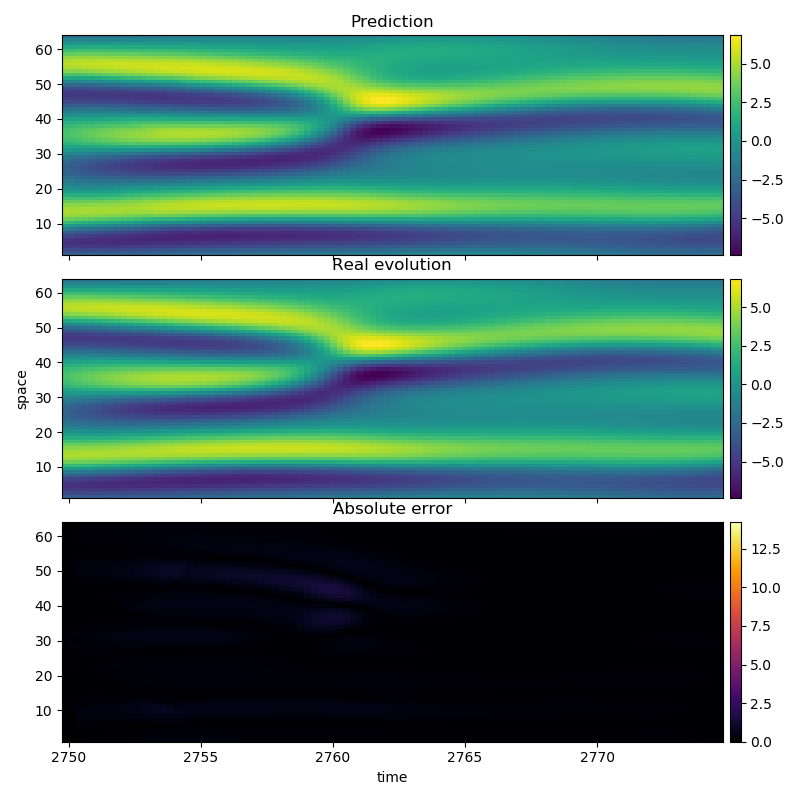
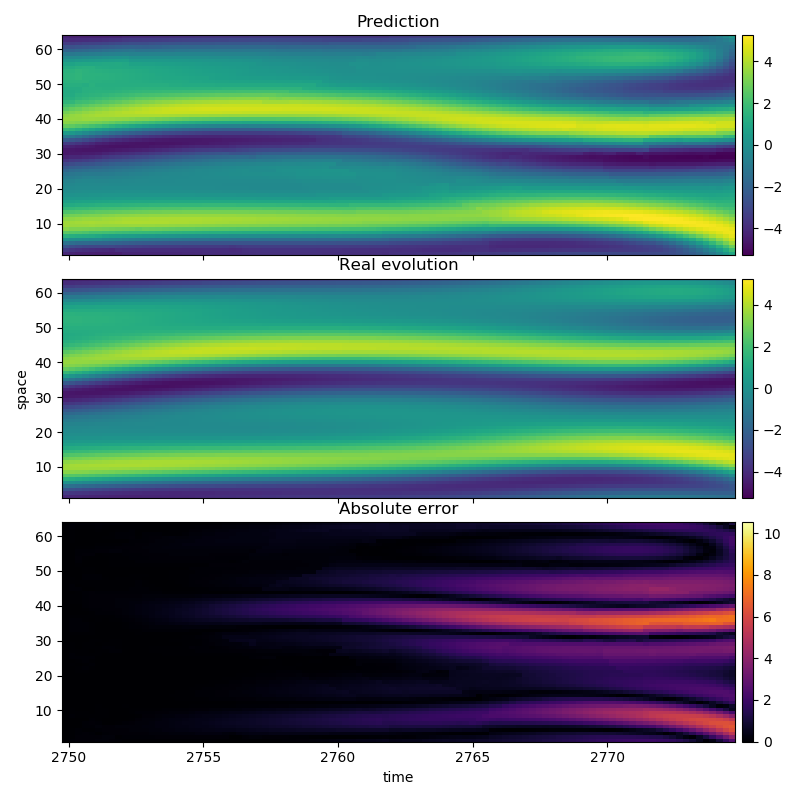
build based on 01f9052

diff --git a/dev/spatiotemporal/index.html b/dev/spatiotemporal/index.html
@@ -405,7 +405,7 @@
 
 <p>Reconstruct the spatial timeseries <code>s</code> represented by a <code>Vector</code> of <code>AbstractArray</code> states using the embedding struct <code>em</code> of type <a href="./#TimeseriesPrediction.AbstractSpatialEmbedding"><code>AbstractSpatialEmbedding</code></a>.</p>
 <p>Returns the reconstruction in the form of a <code>Dataset</code> (from <code>DelayEmbeddings</code>) where each row is a reconstructed state and they are ordered first through linear indexing into each state and then incrementing in time.</p>
-<p><a target='_blank' href='https://github.com/JuliaDynamics/TimeseriesPrediction.jl/blob/ef7fe56eb3ba3d074e0d8a00fca55862982609ec/src/reconstruct.jl#L6-L14' class='documenter-source'>source</a><br></p>
+<p><a target='_blank' href='https://github.com/JuliaDynamics/TimeseriesPrediction.jl/blob/01f90522144459736dd2bb98e5d575d51aa10f30/src/reconstruct.jl#L6-L14' class='documenter-source'>source</a><br></p>
 <p><a id='TimeseriesPrediction.AbstractSpatialEmbedding' href='#TimeseriesPrediction.AbstractSpatialEmbedding'>#</a>
 <strong><code>TimeseriesPrediction.AbstractSpatialEmbedding</code></strong> &mdash; <em>Type</em>.</p>
 <div class="codehilite"><pre><span></span>AbstractSpatialEmbedding &lt;: AbstractEmbedding
@@ -417,7 +417,7 @@
 <li><code>SpatioTemporalEmbedding</code></li>
 <li><code>PCAEmbedding</code></li>
 </ul>
-<p><a target='_blank' href='https://github.com/JuliaDynamics/TimeseriesPrediction.jl/blob/ef7fe56eb3ba3d074e0d8a00fca55862982609ec/src/spatiotemporalembedding.jl#L15-L20' class='documenter-source'>source</a><br></p>
+<p><a target='_blank' href='https://github.com/JuliaDynamics/TimeseriesPrediction.jl/blob/01f90522144459736dd2bb98e5d575d51aa10f30/src/spatiotemporalembedding.jl#L15-L20' class='documenter-source'>source</a><br></p>
 <p><a id='TimeseriesPrediction.SpatioTemporalEmbedding' href='#TimeseriesPrediction.SpatioTemporalEmbedding'>#</a>
 <strong><code>TimeseriesPrediction.SpatioTemporalEmbedding</code></strong> &mdash; <em>Type</em>.</p>
 <div class="codehilite"><pre><span></span>SpatioTemporalEmbedding{T,Φ,BC,X} → embedding
@@ -450,7 +450,7 @@
 <li><code>bc::BC</code> : boundary condition.</li>
 <li><code>fsize::NTuple{Φ, Int}</code> : Size of each state in the timeseries.</li>
 </ul>
-<p><a target='_blank' href='https://github.com/JuliaDynamics/TimeseriesPrediction.jl/blob/ef7fe56eb3ba3d074e0d8a00fca55862982609ec/src/spatiotemporalembedding.jl#L87-L116' class='documenter-source'>source</a><br></p>
+<p><a target='_blank' href='https://github.com/JuliaDynamics/TimeseriesPrediction.jl/blob/01f90522144459736dd2bb98e5d575d51aa10f30/src/spatiotemporalembedding.jl#L87-L116' class='documenter-source'>source</a><br></p>
 <p><a id='TimeseriesPrediction.cubic_shell_embedding' href='#TimeseriesPrediction.cubic_shell_embedding'>#</a>
 <strong><code>TimeseriesPrediction.cubic_shell_embedding</code></strong> &mdash; <em>Function</em>.</p>
 <div class="codehilite"><pre><span></span>cubic_shell_embedding(s, D, τ, B, k, bc) → embedding
@@ -476,7 +476,7 @@
 </pre></div>
 
 
-<p><a target='_blank' href='https://github.com/JuliaDynamics/TimeseriesPrediction.jl/blob/ef7fe56eb3ba3d074e0d8a00fca55862982609ec/src/spatiotemporalembedding.jl#L193-L232' class='documenter-source'>source</a><br></p>
+<p><a target='_blank' href='https://github.com/JuliaDynamics/TimeseriesPrediction.jl/blob/01f90522144459736dd2bb98e5d575d51aa10f30/src/spatiotemporalembedding.jl#L193-L232' class='documenter-source'>source</a><br></p>
 <p><a id='TimeseriesPrediction.light_cone_embedding' href='#TimeseriesPrediction.light_cone_embedding'>#</a>
 <strong><code>TimeseriesPrediction.light_cone_embedding</code></strong> &mdash; <em>Function</em>.</p>
 <div class="codehilite"><pre><span></span>light_cone_embedding(s, D, τ, r₀, c, bc) → embedding
@@ -499,7 +499,7 @@ n - τ | .......xxxxxxx....... | .....xxxxxxxxxx...... | .........xxx.........
 
 
 <p>Besides this example, in the official documentation we show a function <code>explain_light_cone</code> which produces a plot of the light cone for 2 spatial dimensions (great for understanding!).</p>
-<p><a target='_blank' href='https://github.com/JuliaDynamics/TimeseriesPrediction.jl/blob/ef7fe56eb3ba3d074e0d8a00fca55862982609ec/src/spatiotemporalembedding.jl#L268-L304' class='documenter-source'>source</a><br></p>
+<p><a target='_blank' href='https://github.com/JuliaDynamics/TimeseriesPrediction.jl/blob/01f90522144459736dd2bb98e5d575d51aa10f30/src/spatiotemporalembedding.jl#L268-L304' class='documenter-source'>source</a><br></p>
 <p><a id='TimeseriesPrediction.PCAEmbedding' href='#TimeseriesPrediction.PCAEmbedding'>#</a>
 <strong><code>TimeseriesPrediction.PCAEmbedding</code></strong> &mdash; <em>Type</em>.</p>
 <div class="codehilite"><pre><span></span><span class="nt">PCAEmbedding</span><span class="o">(</span><span class="nt">s</span><span class="o">,</span> <span class="nt">em</span><span class="p">::</span><span class="nd">SpatioTemporalEmbedding</span><span class="o">;</span> <span class="nt">kwargs</span><span class="o">...)</span> <span class="err">→</span> <span class="nt">embedding</span>
@@ -521,7 +521,7 @@ n - τ | .......xxxxxxx....... | .....xxxxxxxxxx...... | .........xxx.........
 <li><code>every_α = 1</code> : Speed up computation further by only using every n-th point in space (linear indexing).</li>
 </ul>
 <p>To set the output dimension to a certain value <code>X</code>, pass <code>pratio=1, maxoutdim=X</code>.</p>
-<p><a target='_blank' href='https://github.com/JuliaDynamics/TimeseriesPrediction.jl/blob/ef7fe56eb3ba3d074e0d8a00fca55862982609ec/src/pcaembedding.jl#L5-L28' class='documenter-source'>source</a><br></p>
+<p><a target='_blank' href='https://github.com/JuliaDynamics/TimeseriesPrediction.jl/blob/01f90522144459736dd2bb98e5d575d51aa10f30/src/pcaembedding.jl#L5-L28' class='documenter-source'>source</a><br></p>
 <p>Here is a function that visualizes how the <code>light_cone_embedding</code> works in 2 spatial dimensions:</p>
 <div class="codehilite"><pre><span></span><span class="k">using</span> <span class="n">PyPlot</span><span class="p">,</span> <span class="n">TimeseriesPrediction</span>
 <span class="k">using</span> <span class="n">LinearAlgebra</span><span class="o">:</span> <span class="n">norm</span>
@@ -570,7 +570,7 @@ n - τ | .......xxxxxxx....... | .....xxxxxxxxxx...... | .........xxx.........
 
 
 <p>Constant boundary condition type. Enforces constant boundary conditions when passed to <a href="./#TimeseriesPrediction.SpatioTemporalEmbedding"><code>SpatioTemporalEmbedding</code></a> by filling missing out-of-bounds values in the reconstruction with parameter <code>c</code>.</p>
-<p><a target='_blank' href='https://github.com/JuliaDynamics/TimeseriesPrediction.jl/blob/ef7fe56eb3ba3d074e0d8a00fca55862982609ec/src/spatiotemporalembedding.jl#L31-L37' class='documenter-source'>source</a><br></p>
+<p><a target='_blank' href='https://github.com/JuliaDynamics/TimeseriesPrediction.jl/blob/01f90522144459736dd2bb98e5d575d51aa10f30/src/spatiotemporalembedding.jl#L31-L37' class='documenter-source'>source</a><br></p>
 <p><a id='TimeseriesPrediction.PeriodicBoundary' href='#TimeseriesPrediction.PeriodicBoundary'>#</a>
 <strong><code>TimeseriesPrediction.PeriodicBoundary</code></strong> &mdash; <em>Type</em>.</p>
 <div class="codehilite"><pre><span></span>PeriodicBoundary &lt;: AbstractBoundaryCondition
@@ -578,7 +578,7 @@ n - τ | .......xxxxxxx....... | .....xxxxxxxxxx...... | .........xxx.........
 
 
 <p>Periodic boundary condition struct. Enforces periodic boundary conditions when passed to <a href="./#TimeseriesPrediction.SpatioTemporalEmbedding"><code>SpatioTemporalEmbedding</code></a> in the reconstruction.</p>
-<p><a target='_blank' href='https://github.com/JuliaDynamics/TimeseriesPrediction.jl/blob/ef7fe56eb3ba3d074e0d8a00fca55862982609ec/src/spatiotemporalembedding.jl#L42-L46' class='documenter-source'>source</a><br></p>
+<p><a target='_blank' href='https://github.com/JuliaDynamics/TimeseriesPrediction.jl/blob/01f90522144459736dd2bb98e5d575d51aa10f30/src/spatiotemporalembedding.jl#L42-L46' class='documenter-source'>source</a><br></p>
 <p><a id='Prediction-functions-1'></a></p>
 <h2 id="prediction-functions">Prediction functions</h2>
 <p><a id='TimeseriesPrediction.temporalprediction' href='#TimeseriesPrediction.temporalprediction'>#</a>
@@ -603,7 +603,7 @@ n - τ | .......xxxxxxx....... | .....xxxxxxxxxx...... | .........xxx.........
 <p>Be careful when choosing embedding parameters as memory usage and computation time depend strongly on the resulting embedding dimension.</p>
 <p><strong>References</strong></p>
 <p>[1] : U. Parlitz &amp; C. Merkwirth, <a href="https://journals.aps.org/prl/abstract/10.1103/PhysRevLett.84.1890">Phys. Rev. Lett. <strong>84</strong>, pp 1890 (2000)</a></p>
-<p><a target='_blank' href='https://github.com/JuliaDynamics/TimeseriesPrediction.jl/blob/ef7fe56eb3ba3d074e0d8a00fca55862982609ec/src/temporalprediction.jl#L22-L56' class='documenter-source'>source</a><br></p>
+<p><a target='_blank' href='https://github.com/JuliaDynamics/TimeseriesPrediction.jl/blob/01f90522144459736dd2bb98e5d575d51aa10f30/src/temporalprediction.jl#L22-L56' class='documenter-source'>source</a><br></p>
 <p><a id='TimeseriesPrediction.crossprediction' href='#TimeseriesPrediction.crossprediction'>#</a>
 <strong><code>TimeseriesPrediction.crossprediction</code></strong> &mdash; <em>Function</em>.</p>
 <div class="codehilite"><pre><span></span><span class="nt">crossprediction</span><span class="o">(</span><span class="nt">source_train</span><span class="o">,</span> <span class="nt">target_train</span><span class="o">,</span> <span class="nt">source_pred</span><span class="o">,</span>
@@ -636,7 +636,7 @@ n - τ | .......xxxxxxx....... | .....xxxxxxxxxx...... | .........xxx.........
 <p>Be careful when choosing embedding parameters as memory usage and computation time depend strongly on the resulting embedding dimension.</p>
 <p><strong>References</strong></p>
 <p>[1] : U. Parlitz &amp; C. Merkwirth, <a href="https://journals.aps.org/prl/abstract/10.1103/PhysRevLett.84.1890">Phys. Rev. Lett. <strong>84</strong>, pp 1890 (2000)</a></p>
-<p><a target='_blank' href='https://github.com/JuliaDynamics/TimeseriesPrediction.jl/blob/ef7fe56eb3ba3d074e0d8a00fca55862982609ec/src/crossprediction.jl#L7-L53' class='documenter-source'>source</a><br></p>
+<p><a target='_blank' href='https://github.com/JuliaDynamics/TimeseriesPrediction.jl/blob/01f90522144459736dd2bb98e5d575d51aa10f30/src/crossprediction.jl#L7-L53' class='documenter-source'>source</a><br></p>
                 
                   
                 

diff --git a/dev/stexamples/index.html b/dev/stexamples/index.html
@@ -624,8 +624,8 @@
 </pre></div>
 
 
-<div class="codehilite"><pre><span></span>  3.284203 seconds (2.73 M allocations: 256.534 MiB, 7.74% gc time)
-Maximum error: 1.5600618294884092
+<div class="codehilite"><pre><span></span>  3.045345 seconds (2.73 M allocations: 256.572 MiB, 8.61% gc time)
+Maximum error: 7.489722699875898
 </pre></div>
 
 
@@ -647,26 +647,26 @@ Maximum error: 1.5600618294884092
 
 
 <div class="codehilite"><pre><span></span>64×101 Array{Float64,2}:
- 0.0  0.0466572   0.117697   0.131286   …  0.0827052   0.0727434  0.0623404
- 0.0  0.0436173   0.115838   0.130762      0.0706123   0.0620372  0.0532052
- 0.0  0.0413012   0.115205   0.131936      0.0587733   0.0518077  0.0447218
- 0.0  0.0391376   0.117112   0.134954      0.0486609   0.0433288  0.0379741
- 0.0  0.0334451   0.117476   0.135102      0.0412595   0.0374743  0.0337473
- 0.0  0.0205238   0.109696   0.126199   …  0.0371476   0.034779   0.0325509
- 0.0  0.00147706  0.0859749  0.101104      0.0366562   0.0356417  0.0348383
- 0.0  0.0192589   0.0393596  0.0534729     0.0399156   0.0403386  0.0409487
- 0.0  0.0403113   0.031525   0.018191      0.0463207   0.0481664  0.050087
- 0.0  0.0611593   0.119014   0.104414      0.0540394   0.0572844  0.0605297
- ⋮                                      ⋱                         ⋮
- 0.0  0.0766729   0.360738   0.383049   …  0.0314821   0.0102704  0.011542
- 0.0  0.0192884   0.329772   0.335125      0.00638236  0.0103296  0.0270158
- 0.0  0.0237442   0.250627   0.256649      0.0235507   0.0342077  0.0442732
- 0.0  0.0384169   0.167431   0.165226      0.0527045   0.0568562  0.0599991
- 0.0  0.0403484   0.0786102  0.0711867     0.0765979   0.074821   0.0718174
- 0.0  0.0394374   0.0014325  0.011789   …  0.0926161   0.0862161  0.0785707
- 0.0  0.0401778   0.0614901  0.0733009     0.100036    0.0906531  0.0801566
- 0.0  0.0437012   0.0980854  0.110615      0.0996262   0.0888658  0.0772044
- 0.0  0.0472589   0.114488   0.127432      0.0931179   0.0822978  0.0708126
+ 0.0  0.117557     0.093332    0.0995133   …  0.176435  0.428045  1.12381
+ 0.0  0.0844138    0.0624008   0.0627831      1.03725   0.634373  0.149066
+ 0.0  0.0487361    0.0268789   0.0249753      1.51933   1.35378   1.12772
+ 0.0  0.0430553    0.00531474  0.00402415     1.65941   1.72697   1.76369
+ 0.0  0.0550993    0.00717697  0.00488774     1.54245   1.80927   2.07716
+ 0.0  0.0513383    0.0131881   0.00198239  …  1.27599   1.69305   2.13234
+ 0.0  0.0394528    0.0126422   0.0254385      0.977606  1.4845    2.02576
+ 0.0  0.0222963    0.0454558   0.0583722      0.749201  1.27235   1.84884
+ 0.0  0.0113543    0.0875975   0.102984       0.625136  1.10491   1.6342
+ 0.0  0.000283291  0.121417    0.137955       0.64153   1.04758   1.47385
+ ⋮                                         ⋱                      ⋮
+ 0.0  0.0806688    0.0717503   0.0555449   …  3.34076   2.8054    2.20618
+ 0.0  0.103009     0.0765522   0.0773288      4.80043   4.36622   3.83916
+ 0.0  0.0407499    0.0130141   0.0274053      5.84244   5.59799   5.24194
+ 0.0  0.00136207   0.0219034   0.084694       6.28648   6.2951    6.18903
+ 0.0  0.0325506    0.0315577   0.0891074      6.06503   6.34578   6.52844
+ 0.0  0.0460529    0.0990307   0.0424581   …  5.23427   5.75757   6.21841
+ 0.0  0.0623423    0.114259    0.138285       3.96122   4.65298   5.33638
+ 0.0  0.0751481    0.135083    0.139311       2.47919   3.24312   4.04871
+ 0.0  0.100207     0.134398    0.130669       1.03333   1.76527   2.57602
 </pre></div>
 
 
@@ -752,8 +752,8 @@ Maximum error: 1.5600618294884092
 </pre></div>
 
 
-<div class="codehilite"><pre><span></span> 12.742999 seconds (1.91 M allocations: 1.180 GiB, 5.47% gc time)
-Maximum error: 1.6393274201130676e-22
+<div class="codehilite"><pre><span></span> 55.597706 seconds (1.91 M allocations: 1.179 GiB, 1.28% gc time)
+Maximum error: 0.3501152187355337
 </pre></div>
 
 
@@ -854,7 +854,7 @@ Maximum error: 1.6393274201130676e-22
 </pre></div>
 
 
-<div class="codehilite"><pre><span></span> 29.773724 seconds (1.73 M allocations: 931.289 MiB, 1.37% gc time)
+<div class="codehilite"><pre><span></span> 22.870086 seconds (1.73 M allocations: 931.278 MiB, 1.51% gc time)
 Maximum error: 0.2934269941090367
 </pre></div>
 

diff --git a/dev/localmodels/index.html b/dev/localmodels/index.html
@@ -457,7 +457,7 @@
 <p>The algorithm is applied iteratively until a prediction of length <code>p</code> has been created, starting with the query point to be the last point of the timeseries.</p>
 <p><strong>References</strong></p>
 <p>[1] : D. Engster &amp; U. Parlitz, <em>Handbook of Time Series Analysis</em> Ch. 1, VCH-Wiley (2006)</p>
-<p><a target='_blank' href='https://github.com/JuliaDynamics/TimeseriesPrediction.jl/blob/ef7fe56eb3ba3d074e0d8a00fca55862982609ec/src/localmodeling.jl#L289-L321' class='documenter-source'>source</a><br></p>
+<p><a target='_blank' href='https://github.com/JuliaDynamics/TimeseriesPrediction.jl/blob/01f90522144459736dd2bb98e5d575d51aa10f30/src/localmodeling.jl#L289-L321' class='documenter-source'>source</a><br></p>
 <p><a id='TimeseriesPrediction.AbstractLocalModel' href='#TimeseriesPrediction.AbstractLocalModel'>#</a>
 <strong><code>TimeseriesPrediction.AbstractLocalModel</code></strong> &mdash; <em>Type</em>.</p>
 <div class="codehilite"><pre><span></span>AbstractLocalModel
@@ -538,7 +538,7 @@ f(\sigma) = \begin{cases} 0, & \sigma < s_{min}\\
 </ul>
 <p><strong>References</strong></p>
 <p>[1] : D. Engster &amp; U. Parlitz, <em>Handbook of Time Series Analysis</em> Ch. 1, VCH-Wiley (2006)</p>
-<p><a target='_blank' href='https://github.com/JuliaDynamics/TimeseriesPrediction.jl/blob/ef7fe56eb3ba3d074e0d8a00fca55862982609ec/src/localmodeling.jl#L10-L75' class='documenter-source'>source</a><br></p>
+<p><a target='_blank' href='https://github.com/JuliaDynamics/TimeseriesPrediction.jl/blob/01f90522144459736dd2bb98e5d575d51aa10f30/src/localmodeling.jl#L10-L75' class='documenter-source'>source</a><br></p>
 <p><a id='Single-Timeseries-Example-1'></a></p>
 <h2 id="single-timeseries-example">Single Timeseries Example</h2>
 <p>We will predict the future of a (relatively simple) timeseries:</p>
@@ -648,7 +648,7 @@ MSE_p = \frac{1}{p|T_{ref}|}\sum_{t\in T_{ref}}\sum_{i=1}^{p} \left(y_{t+i}
 <p>where <span><span class="MathJax_Preview">|T_{ref}|</span><script type="math/tex">|T_{ref}|</script></span> is the number of subsets of <code>R_test</code> used.</p>
 <p><strong>References</strong></p>
 <p>See <a href="./#TimeseriesPrediction.localmodel_tsp"><code>localmodel_tsp</code></a>.</p>
-<p><a target='_blank' href='https://github.com/JuliaDynamics/TimeseriesPrediction.jl/blob/ef7fe56eb3ba3d074e0d8a00fca55862982609ec/src/localmodeling.jl#L457-L479' class='documenter-source'>source</a><br></p>
+<p><a target='_blank' href='https://github.com/JuliaDynamics/TimeseriesPrediction.jl/blob/01f90522144459736dd2bb98e5d575d51aa10f30/src/localmodeling.jl#L457-L479' class='documenter-source'>source</a><br></p>
 <p>Here is an example function that employs <code>MSEp</code> to find good parameters. It takes in a timeseries <code>s</code> and ranges for the dimensions, delays and number of nearest neighbors to  try. Keyword arguments are <code>valid_len</code>, which is the number of prediction steps, and <code>num_tries</code> the number of different starting points to choose.</p>
 <p>It then calculates <code>MSEp</code> for all parameter combinations and returns the best parameter set.</p>
 <div class="codehilite"><pre><span></span><span class="k">function</span> <span class="n">estimate_param</span><span class="p">(</span><span class="n">s</span><span class="o">::</span><span class="kt">AbstractVector</span><span class="p">,</span>
@@ -682,7 +682,7 @@ MSE_p = \frac{1}{p|T_{ref}|}\sum_{t\in T_{ref}}\sum_{i=1}^{p} \left(y_{t+i}
 </pre></div>
 
 
-<div class="codehilite"><pre><span></span>(D = 1, τ = 10, k = 2)
+<div class="codehilite"><pre><span></span>(D = 2, τ = 15, k = 2)
 </pre></div>
 
 
